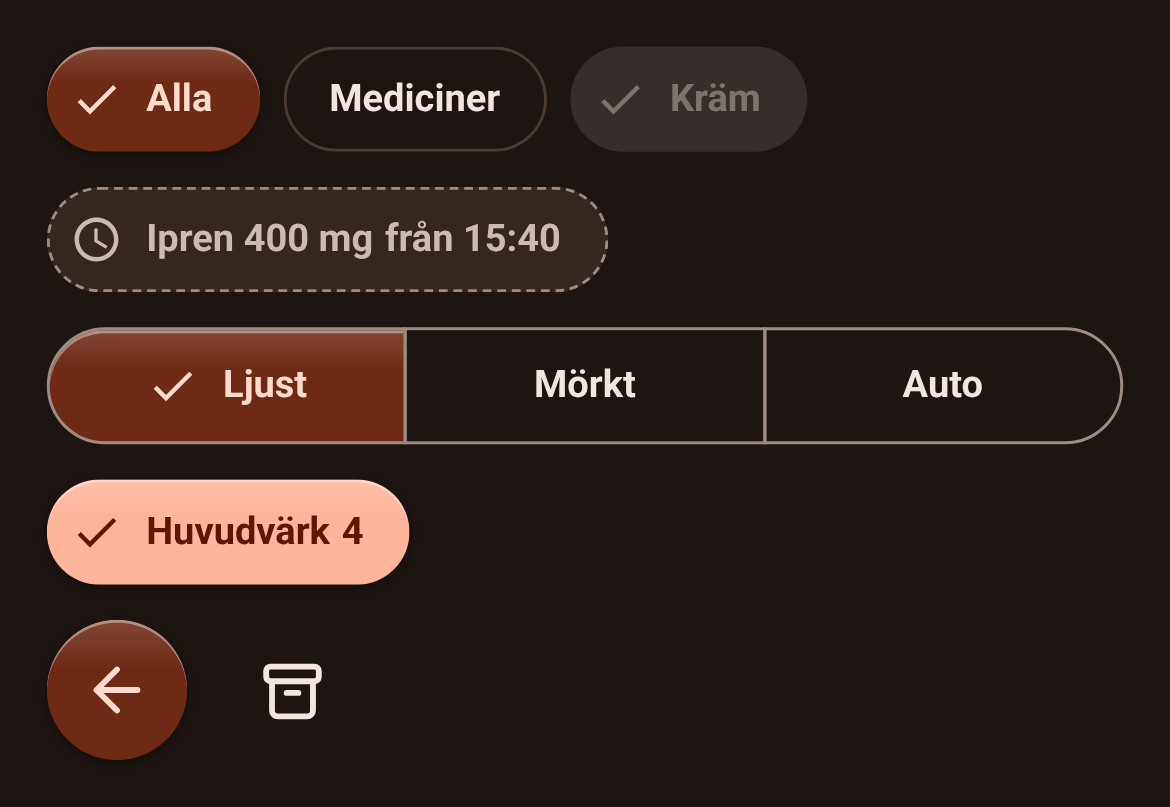
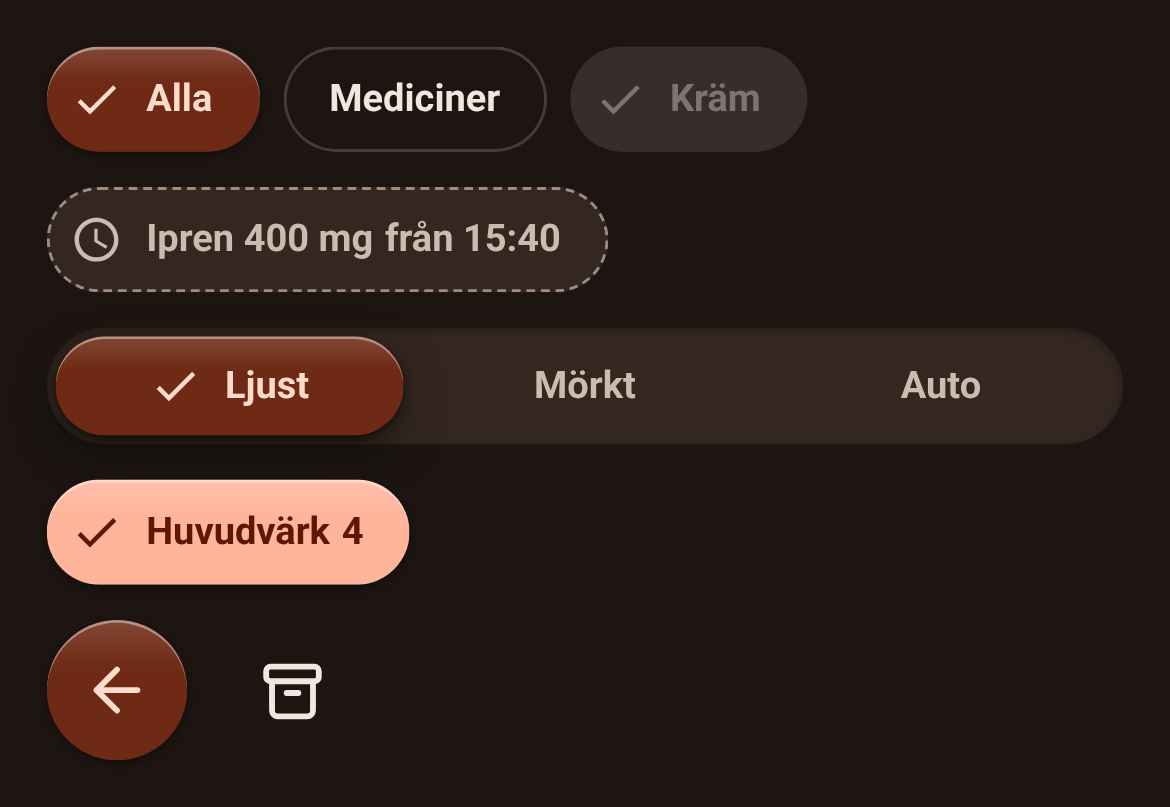
Segmentvalet med mer djup: sänkt spår och upphöjt val (1.6.0, android-ui #97) (#11)
Claude-Session: https://claude.ai/code/session_01KhEpwgxSVCYwVTBadeWHgc

diff --git a/src/kh.css b/src/kh.css
@@ -1196,15 +1196,39 @@ kh-refresh[data-state='pulling'] > .kh-refresh__indicator { transition: none; }
 }
 .kh-depth .kh-btn--outlined:not(:disabled):active { box-shadow: inset 0 0 0 1px var(--kh-outline-variant); }
 
-/* Valt chip och valt segment: skimmer och ljuskant; chipet en liten skugga, segmenten ingen (de sitter ihop). */
+/* Valt chip: skimmer, ljuskant och en liten skugga. */
 .kh-depth .kh-chip:is([aria-pressed='true'], [aria-checked='true'], .kh-chip--selected):not(:disabled, .kh-chip--pending) {
   background-image: var(--kh-lift-sheen);
   box-shadow: var(--kh-lift-highlight), var(--kh-lift-selected);
 }
-.kh-depth .kh-segmented > :is([aria-pressed='true'], [aria-checked='true'], [aria-selected='true']) {
-  background-image: var(--kh-lift-sheen);
-  box-shadow: var(--kh-lift-highlight);
+
+/*
+ * Segmentvalet med djup (android-ui #97): segmenten ligger i stegarens sänkta spår (radtonen och en svag inre
+ * skugga upptill) och det valda lyfts upp som en egen pill med knapparnas skugga. Spåret är 40 px som utan djup.
+ */
+.kh-depth .kh-segmented {
+  box-sizing: border-box;
+  min-block-size: 40px;
+  gap: 3px;
+  padding: 3px;
+  border-radius: var(--kh-radius-pill);
+  background-color: var(--kh-row-tint);
+  box-shadow: inset 0 1px 3px color-mix(in srgb, var(--kh-depth-shadow) 50%, transparent);
 }
+.kh-depth .kh-segmented > *,
+.kh-depth .kh-segmented > :is(:first-child, :last-child) {
+  min-block-size: 34px;
+  margin: 0;
+  border: 0;
+  border-radius: var(--kh-radius-pill);
+  color: var(--kh-on-surface-variant);
+}
+.kh-depth .kh-segmented > :is([aria-pressed='true'], [aria-checked='true'], [aria-selected='true']) {
+  color: var(--kh-on-primary-container);
+  background-image: var(--kh-lift-sheen);
+  box-shadow: var(--kh-lift-highlight), var(--kh-lift-near), var(--kh-lift-far);
+}
+.kh-depth .kh-segmented > :is([aria-pressed='true'], [aria-checked='true'], [aria-selected='true']):active { box-shadow: none; }
 .kh-depth :is(.kh-chip, .kh-segmented > *):active { background-image: none; }
 
 /* Ikonknappen krymper mer än en bred knapp för att trycket ska synas (0,97 → 0,92); den tonade lyfts som ett valt chip. */

diff --git a/README.md b/README.md
@@ -4,7 +4,7 @@ android-ui:s utseende för Kodhästs webbappar (Husjakt först, sedan Veckans ma
 knappar och de andra delarna som i Android-apparna, som ren CSS. Bara färger och typsnitt skiljer
 mellan apparna; formerna och måtten är desamma överallt.
 
-**Version:** 1.5.0 (tagg `v1.5.0`) ·
+**Version:** 1.6.0 (tagg `v1.6.0`) ·
 tal ur android-ui 3.2.2 · planen: [Kodhast/android-ui#93](https://github.com/Kodhast/android-ui/issues/93).
 
 **Facit är android-ui:s komponenter och Roborazzi-bilder**, inte en mockup. Galleriet här speglar
@@ -151,6 +151,7 @@ taggas `main` med `v<version>`: Actions → Tagga → Run workflow på `main` (`
 
 | Version | Ändring |
 |---|---|
+| 1.6.0 | Segmentvalet med mer djup (android-ui #97, 3.4.0): med `kh-depth` ligger `kh-segmented` i ett sänkt spår (`--kh-row-tint` och en svag inre skugga) och det valda segmentet lyfts som en egen pill med knapparnas skugga, skimmer och ljuskant; ovalda utan kontur i `--kh-on-surface-variant`. Samma höjd (40 px) och märkning. Utan `kh-depth` oförändrat. Omtagna: `Valda_djup` |
 | 1.5.0 | Menyn vid valfri knapp: `kh-menu` förankras vid knappen som öppnar den med `popovertarget`, under knappen och linjerad med dess högerkant, ovanför när det inte ryms. Förut förankrades bara flikradens huvudknapps meny. Flikradens meny som förut. |
 | 1.4.0 | Versionen i sidhuvudet (android-ui #95, `AppIdentity.version`): `.kh-header__version` efter `__name` – litet (`kh-type-caption`), dämpat, på namnets baslinje, tonar bort med namnet och lämnas bort helt när den inte ryms bredvid ett helt namn. `kh.js` placerar den. Utan elementet är allt som förut. |
 | 1.3.0 | Bred skärm: `--kh-page-max` ställer `kh-header`, `kh-topbar` och nya `kh-page` i en spalt; nya kortrutnätet `kh-grid` (en spalt under 600, annars spalter om minst 300). Utan variabeln oförändrat. |
